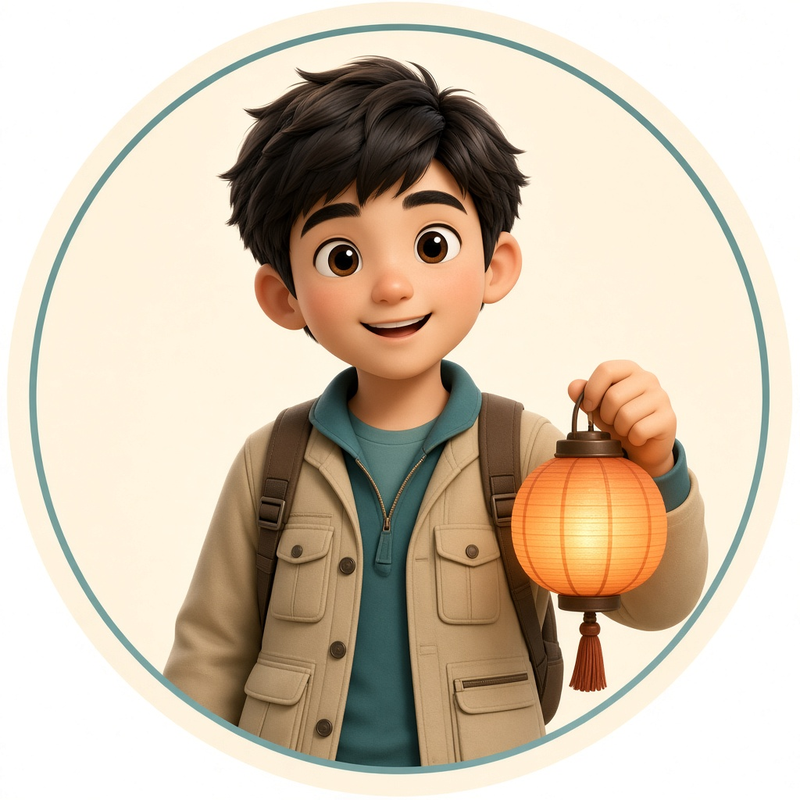
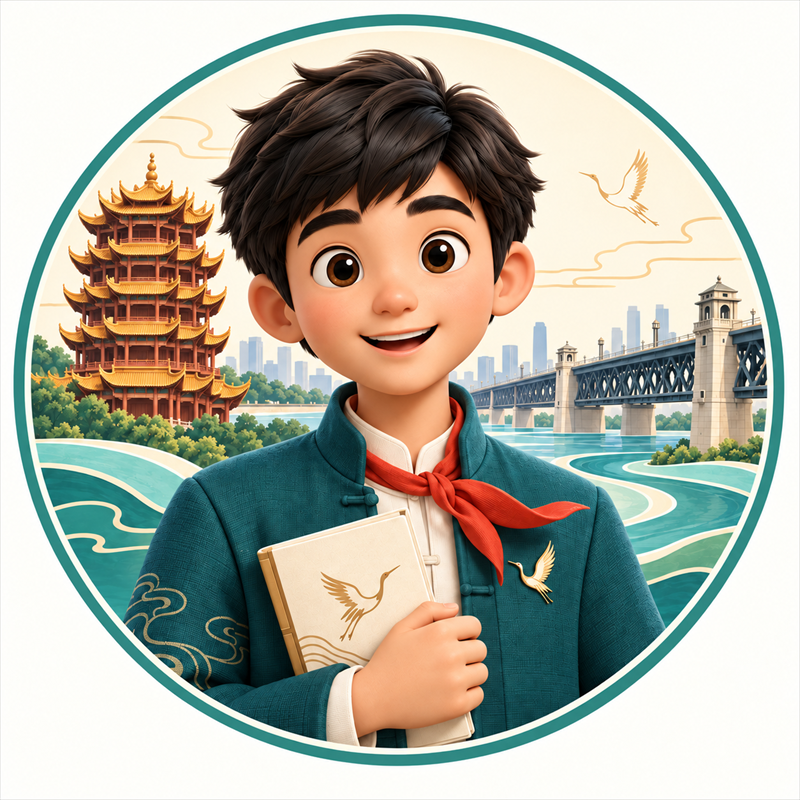
Update Wuhan brand artwork and remove obsolete image variants

diff --git a/submission/空间创建表单.md b/submission/空间创建表单.md
@@ -2,8 +2,6 @@
 
 对照自定义创建弹窗，可直接复制。场景锁定 **武汉**。空间对外名称用 **江城知音**（古琴台「知音」典故 + 十二位旅伴），报名作品名写《武汉文商旅协同空间》。
 
-不用「灯语」：那是从图标灯笼倒推的词，不是武汉语汇，广场上也不好懂。
-
 ---
 
 ## 逐项填写
@@ -95,11 +93,9 @@ jiangchengwt
 | 用途 | 文件 | 尺寸 | 比例 |
 | --- | --- | --- | --- |
 | **logo（主传）** | [`assets/space-logo-4x1.png`](assets/space-logo-4x1.png) | 2000×500 | 4:1 |
-| logo 小图 | [`assets/space-logo-4x1-800.png`](assets/space-logo-4x1-800.png) | 800×200 | 4:1 |
 | **头像（主传）** | [`assets/space-avatar-800.png`](assets/space-avatar-800.png) | 800×800 | 1:1 |
-| 头像高清 | [`assets/space-avatar-1024.png`](assets/space-avatar-1024.png) | 1024×1024 | 1:1 |
 
-视觉约定：奶油底、青绿山水徽章；标题「江城知音」；副题「三镇可问 · 十二旅伴」。无水印、无真人脸、无机构商标。
+视觉约定：米白底、青绿江水、金色楼檐与少量朱红；黄鹤楼、武汉长江大桥、轮渡和鹤纹突出武汉特点。Logo 与头像使用同一位身穿青绿中式领口外套、系朱红围巾、手持导览册的 3D 卡通向导。标题「江城知音」；副题「三镇可问 · 十二旅伴」；第三行「登黄鹤 · 去过早 · 走一程」。无水印、无真人脸、无机构商标。
 
 ---
 
